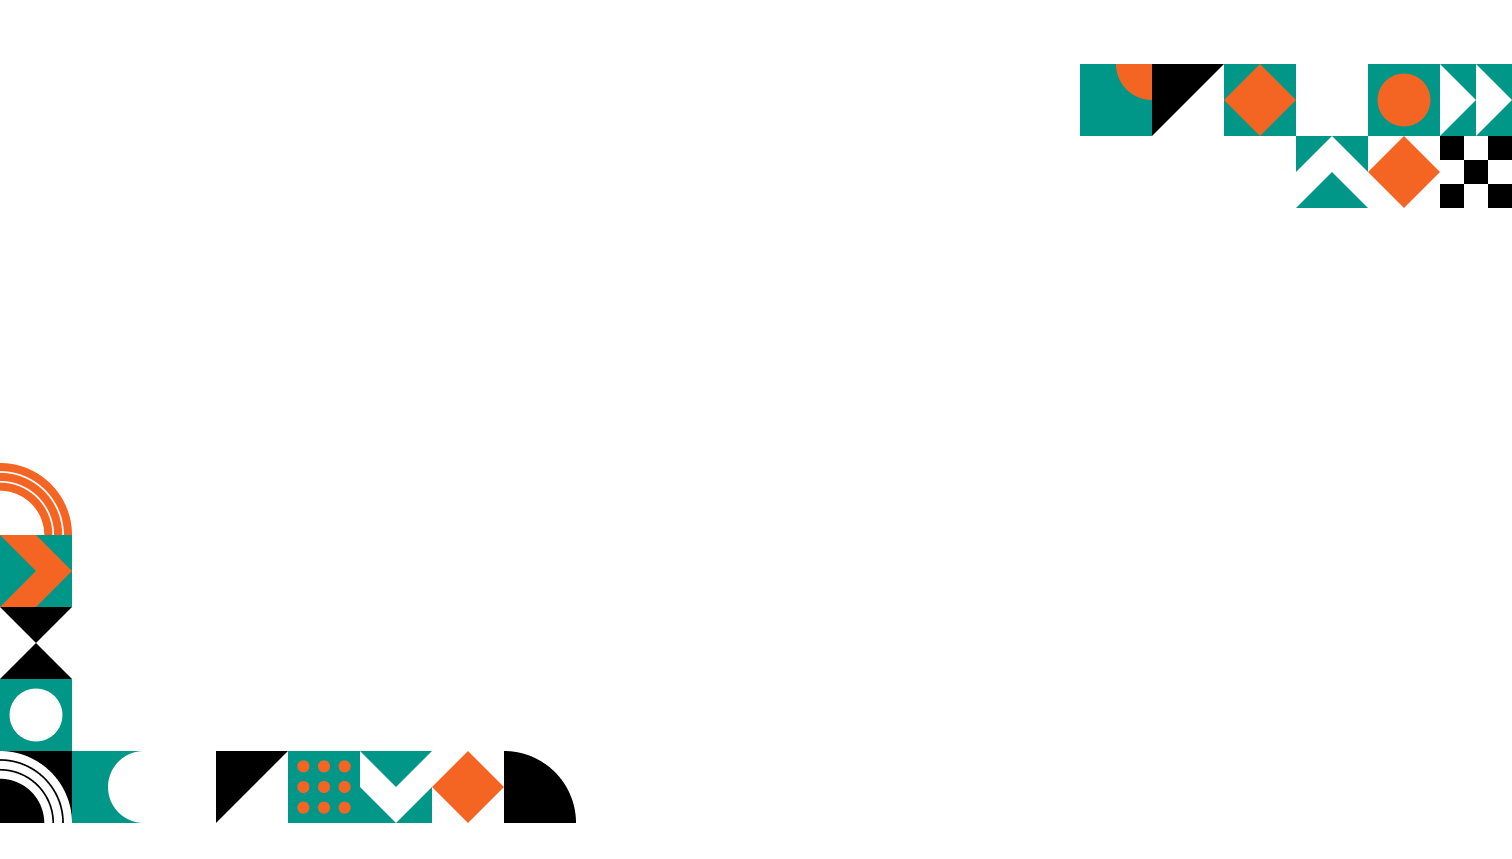
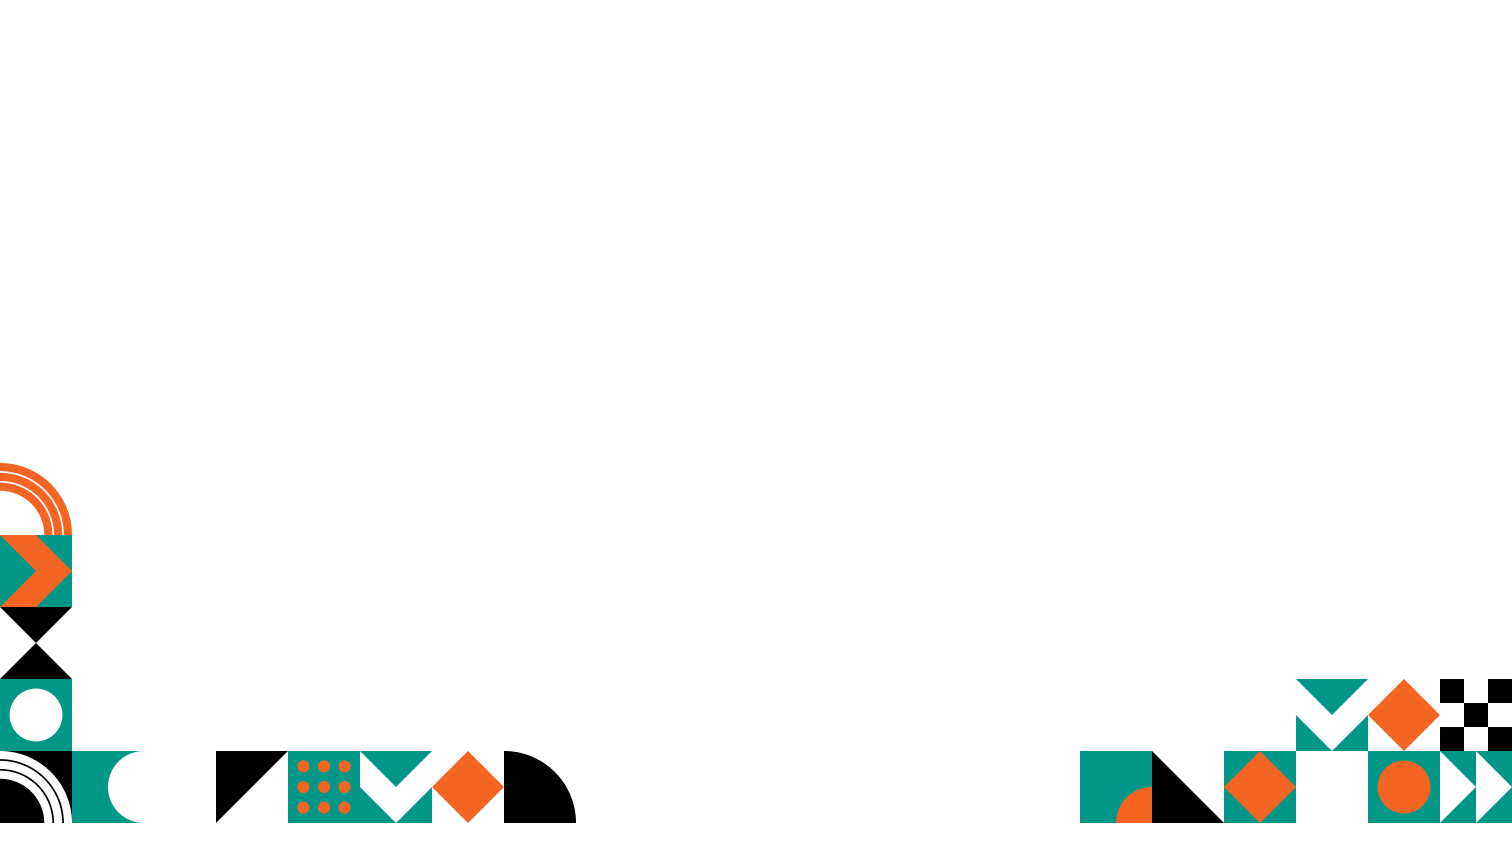
add image

Changed region(s): [[0.7149, 0.0605, 1.0, 0.2421], [0.7149, 0.787, 1.0, 0.9686]]

diff --git a/index.html b/index.html
@@ -277,31 +277,87 @@
         }
 
         /* ── PROCESS PHASE TABS: BRAND COLOR SYSTEM ────────────── */
-        .proc-tab { transition: filter 0.15s ease, box-shadow 0.18s ease; }
+        .proc-tab {
+            transition: filter 0.15s ease, box-shadow 0.18s ease;
+        }
 
-        .proc-tab[data-fasa="1"] { background-color: #F46523; color: #000000; }
-        .proc-tab[data-fasa="2"] { background-color: #FFFFFF; color: #000000; border-top: 1px solid #e2e8f0; border-bottom: 1px solid #e2e8f0; }
-        .proc-tab[data-fasa="3"] { background-color: #009788; color: #FFFFFF; }
-        .proc-tab[data-fasa="4"] { background-color: #000000; color: #FFFFFF; }
-        .proc-tab[data-fasa="5"] { background-color: #54C3BC; color: #000000; }
+        .proc-tab[data-fasa="1"] {
+            background-color: #F46523;
+            color: #000000;
+        }
+
+        .proc-tab[data-fasa="2"] {
+            background-color: #FFFFFF;
+            color: #000000;
+            border-top: 1px solid #e2e8f0;
+            border-bottom: 1px solid #e2e8f0;
+        }
+
+        .proc-tab[data-fasa="3"] {
+            background-color: #009788;
+            color: #FFFFFF;
+        }
+
+        .proc-tab[data-fasa="4"] {
+            background-color: #000000;
+            color: #FFFFFF;
+        }
+
+        .proc-tab[data-fasa="5"] {
+            background-color: #54C3BC;
+            color: #000000;
+        }
 
         /* Hover — subtle brightness shift, no color swap */
-        .proc-tab[data-fasa="1"]:hover:not(.is-active) { filter: brightness(0.90); }
-        .proc-tab[data-fasa="2"]:hover:not(.is-active) { filter: brightness(0.96); }
-        .proc-tab[data-fasa="3"]:hover:not(.is-active) { filter: brightness(0.90); }
-        .proc-tab[data-fasa="4"]:hover:not(.is-active) { filter: brightness(1.25); }
-        .proc-tab[data-fasa="5"]:hover:not(.is-active) { filter: brightness(0.90); }
+        .proc-tab[data-fasa="1"]:hover:not(.is-active) {
+            filter: brightness(0.90);
+        }
+
+        .proc-tab[data-fasa="2"]:hover:not(.is-active) {
+            filter: brightness(0.96);
+        }
+
+        .proc-tab[data-fasa="3"]:hover:not(.is-active) {
+            filter: brightness(0.90);
+        }
+
+        .proc-tab[data-fasa="4"]:hover:not(.is-active) {
+            filter: brightness(1.25);
+        }
+
+        .proc-tab[data-fasa="5"]:hover:not(.is-active) {
+            filter: brightness(0.90);
+        }
 
         /* Active — left accent bar via inset shadow + slight elevation */
-        .proc-tab.is-active { filter: brightness(1.05); }
-        .proc-tab.is-active[data-fasa="1"] { box-shadow: inset 4px 0 0 rgba(0,0,0,0.35), 2px 0 10px rgba(244,101,35,0.25); }
-        .proc-tab.is-active[data-fasa="2"] { box-shadow: inset 4px 0 0 rgba(0,0,0,0.15), 2px 0 8px rgba(0,0,0,0.08); }
-        .proc-tab.is-active[data-fasa="3"] { box-shadow: inset 4px 0 0 rgba(255,255,255,0.55), 2px 0 10px rgba(0,151,136,0.25); }
-        .proc-tab.is-active[data-fasa="4"] { box-shadow: inset 4px 0 0 rgba(255,255,255,0.45), 2px 0 10px rgba(0,0,0,0.35); }
-        .proc-tab.is-active[data-fasa="5"] { box-shadow: inset 4px 0 0 rgba(0,0,0,0.28), 2px 0 10px rgba(84,195,188,0.25); }
+        .proc-tab.is-active {
+            filter: brightness(1.05);
+        }
+
+        .proc-tab.is-active[data-fasa="1"] {
+            box-shadow: inset 4px 0 0 rgba(0, 0, 0, 0.35), 2px 0 10px rgba(244, 101, 35, 0.25);
+        }
+
+        .proc-tab.is-active[data-fasa="2"] {
+            box-shadow: inset 4px 0 0 rgba(0, 0, 0, 0.15), 2px 0 8px rgba(0, 0, 0, 0.08);
+        }
+
+        .proc-tab.is-active[data-fasa="3"] {
+            box-shadow: inset 4px 0 0 rgba(255, 255, 255, 0.55), 2px 0 10px rgba(0, 151, 136, 0.25);
+        }
+
+        .proc-tab.is-active[data-fasa="4"] {
+            box-shadow: inset 4px 0 0 rgba(255, 255, 255, 0.45), 2px 0 10px rgba(0, 0, 0, 0.35);
+        }
+
+        .proc-tab.is-active[data-fasa="5"] {
+            box-shadow: inset 4px 0 0 rgba(0, 0, 0, 0.28), 2px 0 10px rgba(84, 195, 188, 0.25);
+        }
 
         /* Unvisited — dimmed to indicate not yet seen */
-        .proc-tab:not(.is-viewed):not(.is-active) { filter: brightness(0.70); }
+        .proc-tab:not(.is-viewed):not(.is-active) {
+            filter: brightness(0.70);
+        }
 
         /* Video screen: player fills remaining height, controls never scroll off */
         #screen-4:not(.hidden) {
@@ -402,7 +458,8 @@
                     <!-- Overlay to ensure text readability against the background image -->
                     <div class="absolute inset-0 "></div>
 
-                    <div class="relative z-10 grid md:px-[100px]  grid-cols-1 lg:grid-cols-12 gap-8 items-center py-8 px-6 md:px-10">
+                    <div
+                        class="relative z-10 grid md:px-[100px]  grid-cols-1 lg:grid-cols-12 gap-8 items-center py-8 px-6 md:px-10">
                         <div class="lg:col-span-7 space-y-6">
                             <div
                                 class="inline-flex items-center space-x-2 bg-teal-50 border border-teal-100 px-3 py-1 rounded-full text-teal-700 text-xs font-semibold">
@@ -463,7 +520,8 @@
                             <div class="bg-white border border-slate-200 p-5 rounded-xl flex flex-col justify-between shadow-sm hover:shadow-md transition-all cursor-pointer"
                                 onclick="goToScreen(4)">
                                 <div class="space-y-3 text-center">
-                                    <img src="public/icon-1.png" alt="Ikon Pengenalan Video" class="w-12 h-12 mx-auto object-contain">
+                                    <img src="public/icon-1.png" alt="Ikon Pengenalan Video"
+                                        class="w-12 h-12 mx-auto object-contain">
                                     <h3 class="text-xl font-bold text-slate-800">Pengenalan Video</h3>
                                     <p class="text-slate-500 text-md leading-relaxed">Pengenalan ringkas kepada
                                         teknologi
@@ -477,7 +535,8 @@
                             <div class="bg-white border border-slate-200 p-5 rounded-xl flex flex-col justify-between shadow-sm hover:shadow-md transition-all cursor-pointer"
                                 onclick="goToScreen(5)">
                                 <div class="space-y-3 text-center">
-                                    <img src="public/icon-2.png" alt="Ikon Proses Industri" class="w-12 h-12 mx-auto object-contain">
+                                    <img src="public/icon-2.png" alt="Ikon Proses Industri"
+                                        class="w-12 h-12 mx-auto object-contain">
                                     <h3 class="text-xl font-bold text-slate-800">Proses Industri</h3>
                                     <p class="text-slate-500 text-md leading-relaxed">Rantaian pengeluaran dari bahan
                                         mentah
@@ -491,7 +550,8 @@
                             <div class="bg-white border border-slate-200 p-5 rounded-xl flex flex-col justify-between shadow-sm hover:shadow-md transition-all cursor-pointer"
                                 onclick="goToScreen(7)">
                                 <div class="space-y-3 text-center">
-                                    <img src="public/icon-3.png" alt="Ikon Interaksi & Simulasi" class="w-12 h-12 mx-auto object-contain">
+                                    <img src="public/icon-3.png" alt="Ikon Interaksi & Simulasi"
+                                        class="w-12 h-12 mx-auto object-contain">
                                     <h3 class="text-xl font-bold text-slate-800">Interaksi & Simulasi</h3>
                                     <p class="text-slate-500 text-md leading-relaxed">Penerokaan situasi keselamatan dan
                                         operasi makanan.</p>
@@ -504,7 +564,8 @@
                             <div class="bg-white border border-slate-200 p-5 rounded-xl flex flex-col justify-between shadow-sm hover:shadow-md transition-all cursor-pointer"
                                 onclick="goToScreen(10)">
                                 <div class="space-y-3 text-center">
-                                    <img src="public/icon-4.png" alt="Ikon Cabaran Interaktif" class="w-12 h-12 mx-auto object-contain">
+                                    <img src="public/icon-4.png" alt="Ikon Cabaran Interaktif"
+                                        class="w-12 h-12 mx-auto object-contain">
                                     <h3 class="text-xl font-bold text-slate-800">Cabaran Interaktif</h3>
                                     <p class="text-slate-500 text-md leading-relaxed">Aktiviti pengukuhan pembelajaran &
                                         pengkategorian.</p>
@@ -517,9 +578,8 @@
                             <div class="bg-white border border-slate-200 p-5 rounded-xl flex flex-col justify-between shadow-sm hover:shadow-md transition-all cursor-pointer"
                                 onclick="goToScreen(12)">
                                 <div class="space-y-3 text-center">
-                                    <div
-                                        class="w-12 h-12 rounded-full bg-indigo-50 text-indigo-600 flex items-center justify-center mx-auto text-lg font-bold">
-                                        5</div>
+                                    <img src="public/icon-5.png" alt="Ikon Cabaran Interaktif"
+                                        class="w-12 h-12 mx-auto object-contain">
                                     <h3 class="text-xl font-bold text-slate-800">Penilaian Akhir</h3>
                                     <p class="text-slate-500 text-md leading-relaxed">Ujian kefahaman selepas modul
                                         selesai.
@@ -545,11 +605,12 @@
                     style="background-image: url('public/bg-objektif.png'); background-size: cover; background-position: center;">
                     <div class="absolute inset-0"></div>
                     <div class="relative z-10 space-y-4 px-4 md:px-[100px] w-2/3 py-4 md:py-5">
-                    <div class="space-y-1">
-                        <h2 class="text-4xl font-extrabold text-slate-900">Objektif Pembelajaran</h2>
-                        <p class="text-slate-500 text-lg">Sila klik pada mana-mana objektif pembelajaran di bawah untuk
-                            membuka penerangan:</p>
-                    </div>
+                        <div class="space-y-1">
+                            <h2 class="text-4xl font-extrabold text-slate-900">Objektif Pembelajaran</h2>
+                            <p class="text-slate-500 text-lg">Sila klik pada mana-mana objektif pembelajaran di bawah
+                                untuk
+                                membuka penerangan:</p>
+                        </div>
 
                         <div class="space-y-3">
                             <!-- Obj Row 1 (Green) -->
@@ -904,7 +965,8 @@
                                 <div class="space-y-2">
                                     <h3 class="text-lg font-bold text-slate-400 uppercase tracking-widest"
                                         id="hotspotTitle">Zon Keselamatan</h3>
-                                    <h4 class="text-base text-lg font-bold text-slate-900" id="hotspotDisplayTitle">Sila Pilih
+                                    <h4 class="text-base text-lg font-bold text-slate-900" id="hotspotDisplayTitle">Sila
+                                        Pilih
                                         Zon</h4>
                                     <p class="text-slate-500 text-lg leading-relaxed" id="hotspotDesc">Fasiliti moden
                                         yang mengaplikasikan amalan kebersihan tinggi bagi menjamin tiada sebarang